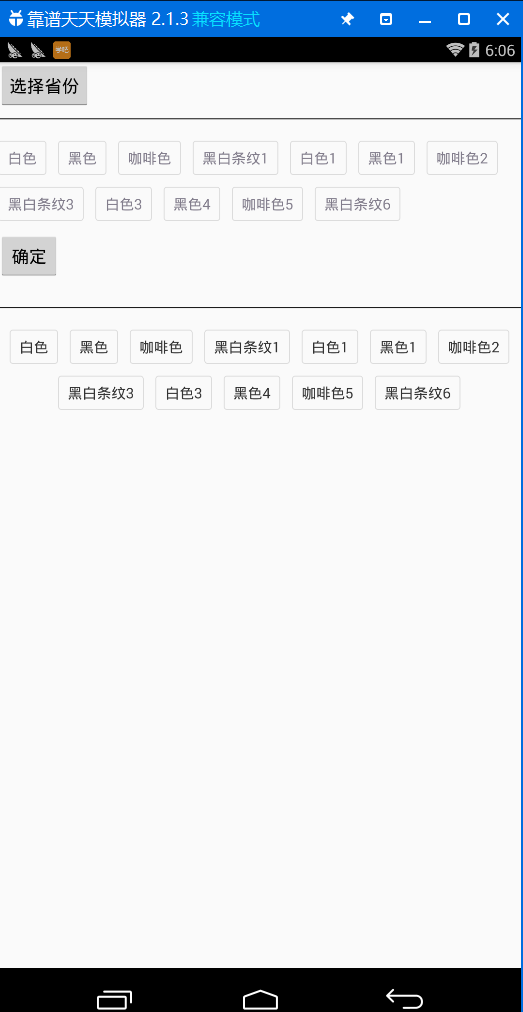
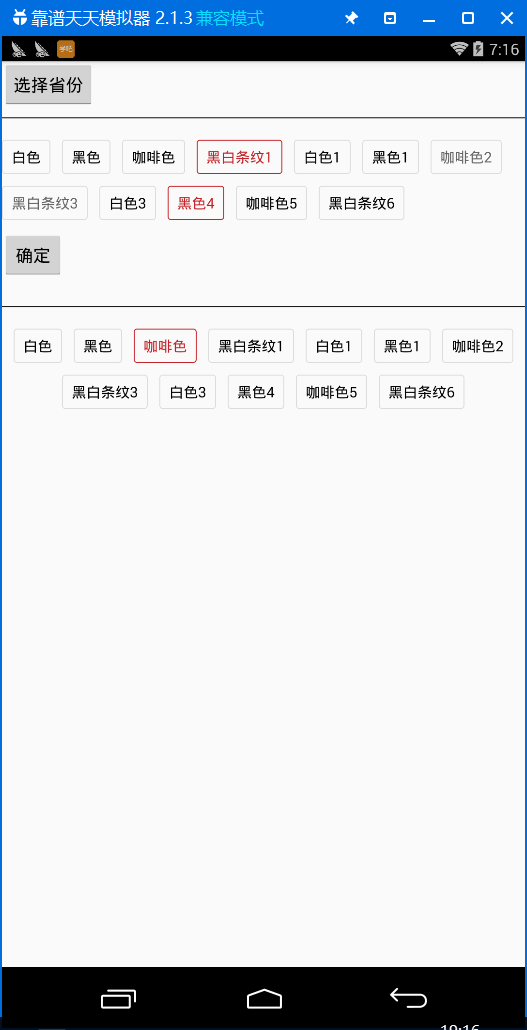
添加按钮不可点击状态

diff --git a/viewfilter/src/main/java/com/suntiago/filterview/flowLayout/filter/FilterView.java b/viewfilter/src/main/java/com/suntiago/filterview/flowLayout/filter/FilterView.java
@@ -38,7 +38,8 @@ public class FilterView extends AutoLineFeedViewGroup implements View.OnClickLis
     int contentTextColor;
     //内容 文字的选中时的颜色
     int contentTextColorSelect;
-
+    //内容 文字不可点击时的颜色
+    int contentTextColorDisableRes;
     //内容 文字的大小
     int contentTextSize;
     //内容 文字的背景
@@ -79,12 +80,12 @@ public class FilterView extends AutoLineFeedViewGroup implements View.OnClickLis
         titleTextColor = typedArray.getColor(R.styleable.FilterView_titleTextColorRes,
                 getResources().getColor(R.color.filter_text_color_property));
         titleTextSize = typedArray.getDimensionPixelSize(R.styleable.FilterView_titleTextSize, 30);
-        contentTextColor = typedArray.getResourceId(R.styleable.FilterView_contentTextColorRes,
+        contentTextColor = typedArray.getColor(R.styleable.FilterView_contentTextColorRes,
                 getResources().getColor(R.color.filter_text_color_property));
-
         contentTextColorSelect = typedArray.getColor(R.styleable.FilterView_contentTextColorSelectRes,
                 getResources().getColor(R.color.filter_text_color_property_select));
-
+        contentTextColorDisableRes = typedArray.getColor(R.styleable.FilterView_contentTextColorDisableRes,
+                getResources().getColor(R.color.filter_text_color_property_disable));
         contentTextSize = typedArray.getDimensionPixelSize(R.styleable.FilterView_contentTextSize, 30);
         contentTextWidth = typedArray.getDimensionPixelSize(R.styleable.FilterView_contentTextWidth, 0);
         contentTextHeight = typedArray.getDimensionPixelSize(R.styleable.FilterView_contentTextHeight, 0);
@@ -138,13 +139,19 @@ public class FilterView extends AutoLineFeedViewGroup implements View.OnClickLis
         if (!autoSquare) {
             textView.setPadding(20, 15, 20, 15);
         }
-        if (choseFilter.contains(filterData)) {
-            textView.setSelected(true);
+        if (filterData.enable) {
+            textView.setEnabled(true);
+            if (choseFilter.contains(filterData)) {
+                textView.setSelected(true);
+            } else {
+                textView.setSelected(false);
+            }
+            textView.setOnClickListener(this);
         } else {
-            textView.setSelected(false);
+            textView.setEnabled(false);
+            textView.setTextColor(contentTextColorDisableRes);
         }
         textView.setTextSize(TypedValue.COMPLEX_UNIT_PX, textSize);
-        textView.setOnClickListener(this);
         textView.setGravity(Gravity.CENTER);
         return textView;
     }
@@ -196,7 +203,7 @@ public class FilterView extends AutoLineFeedViewGroup implements View.OnClickLis
         for (int i = 0; i < getChildCount(); i++) {
             TextView textView = (TextView) getChildAt(i);
             FilterData data = (FilterData) textView.getTag();
-            if (data != null && FilterData.VALUE.equals(data.getType())) {
+            if (data != null && FilterData.VALUE.equals(data.getType()) && data.enable) {
                 if (mChoseFilter.contains(data)) {
                     textView.setSelected(true);
                     textView.setTextColor(contentTextColorSelect);
@@ -250,14 +257,14 @@ public class FilterView extends AutoLineFeedViewGroup implements View.OnClickLis
         this.contentTextSize = contentTextSize;
     }
 
-  /*  public int getContentTextColor() {
-        return contentTextColor;
-    }
+    /*  public int getContentTextColor() {
+          return contentTextColor;
+      }
 
-    public void setContentTextColor(int contentTextColor) {
-        this.contentTextColor = contentTextColor;
-    }
-*/
+      public void setContentTextColor(int contentTextColor) {
+          this.contentTextColor = contentTextColor;
+      }
+  */
     public int getTitleTextSize() {
         return titleTextSize;
     }

diff --git a/viewfilter/src/main/java/com/suntiago/filterview/flowLayout/filter/FilterData.java b/viewfilter/src/main/java/com/suntiago/filterview/flowLayout/filter/FilterData.java
@@ -10,6 +10,7 @@ public class FilterData {
     String name;
     String value;
     String type;//title/content
+    boolean enable = true;
 
     public FilterData(String name, String value, String type) {
         this.name = name;
@@ -20,6 +21,13 @@ public class FilterData {
     public FilterData(String name, String value) {
         this.name = name;
         this.value = value;
+        this.type = FilterData.VALUE;
+    }
+
+    public FilterData(String name, String value, boolean enable) {
+        this.name = name;
+        this.value = value;
+        this.enable = enable;
         this.type = FilterData.VALUE;
     }
 
@@ -45,5 +53,13 @@ public class FilterData {
 
     public void setType(String type) {
         this.type = type;
+    }
+
+    public boolean isEnable() {
+        return enable;
+    }
+
+    public void setEnable(boolean enable) {
+        this.enable = enable;
     }
 }

diff --git a/demo/src/main/java/com/suntiago/dblibDemo/MainActivity.java b/demo/src/main/java/com/suntiago/dblibDemo/MainActivity.java
@@ -72,8 +72,8 @@ public class MainActivity extends Activity {
         list.add(new FilterData("黑白条纹1", "104"));
         list.add(new FilterData("白色1", "105"));
         list.add(new FilterData("黑色1", "106"));
-        list.add(new FilterData("咖啡色2", "107"));
-        list.add(new FilterData("黑白条纹3", "108"));
+        list.add(new FilterData("咖啡色2", "107", false));
+        list.add(new FilterData("黑白条纹3", "108", false));
         list.add(new FilterData("白色3", "1012"));
         list.add(new FilterData("黑色4", "1033"));
         list.add(new FilterData("咖啡色5", "1043"));
